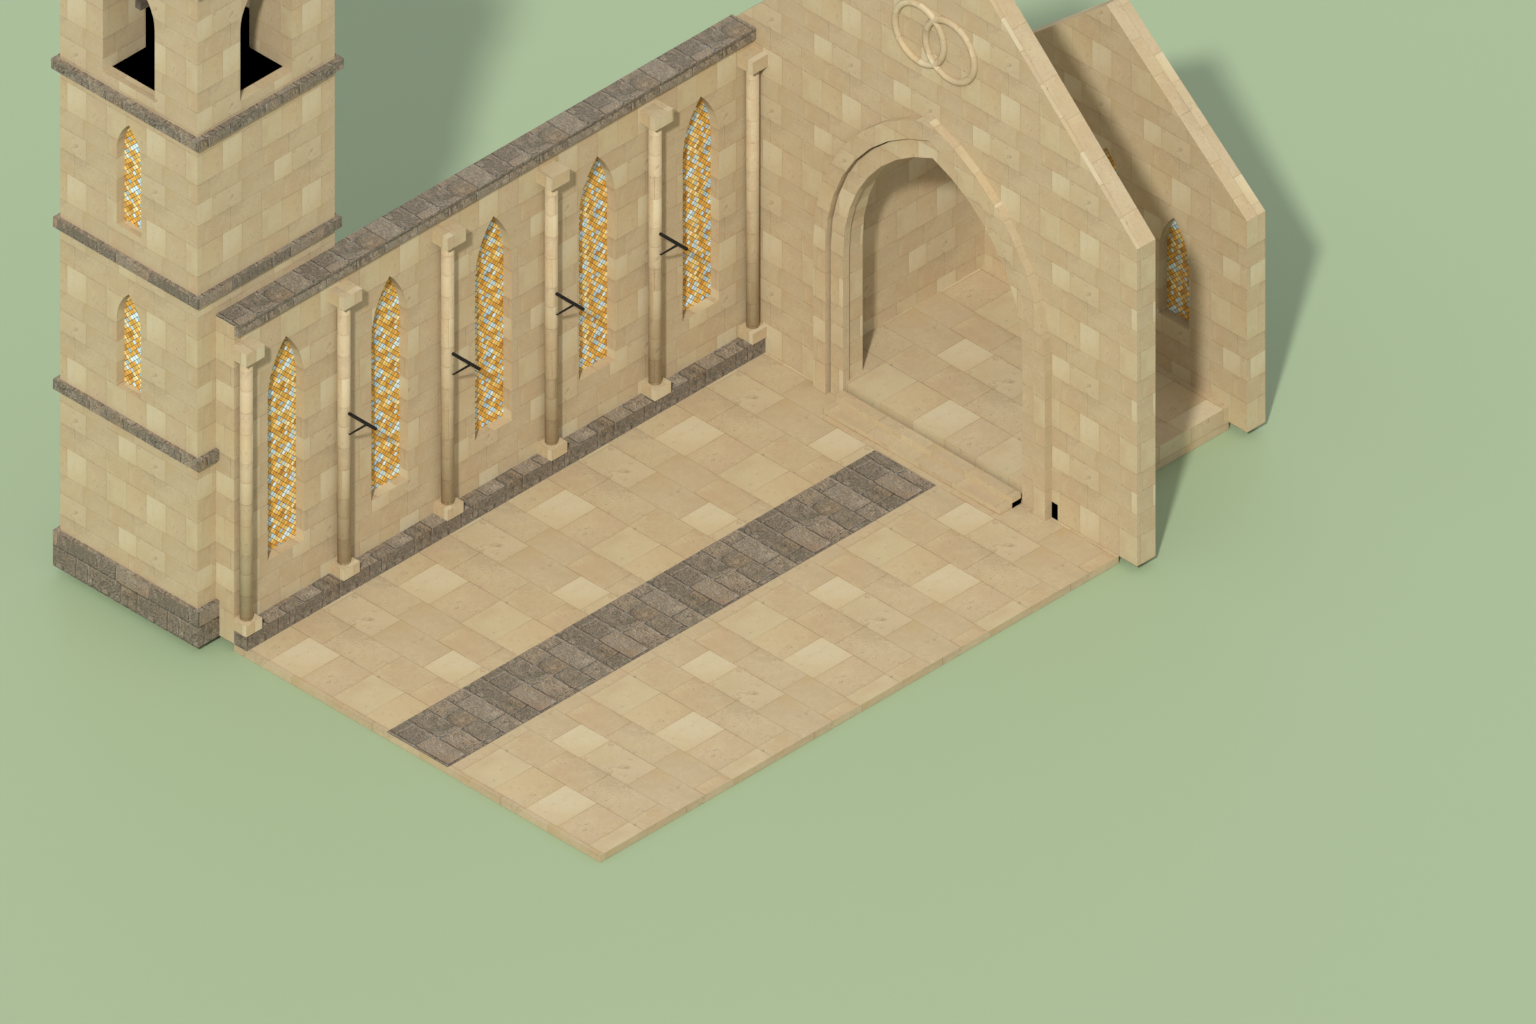
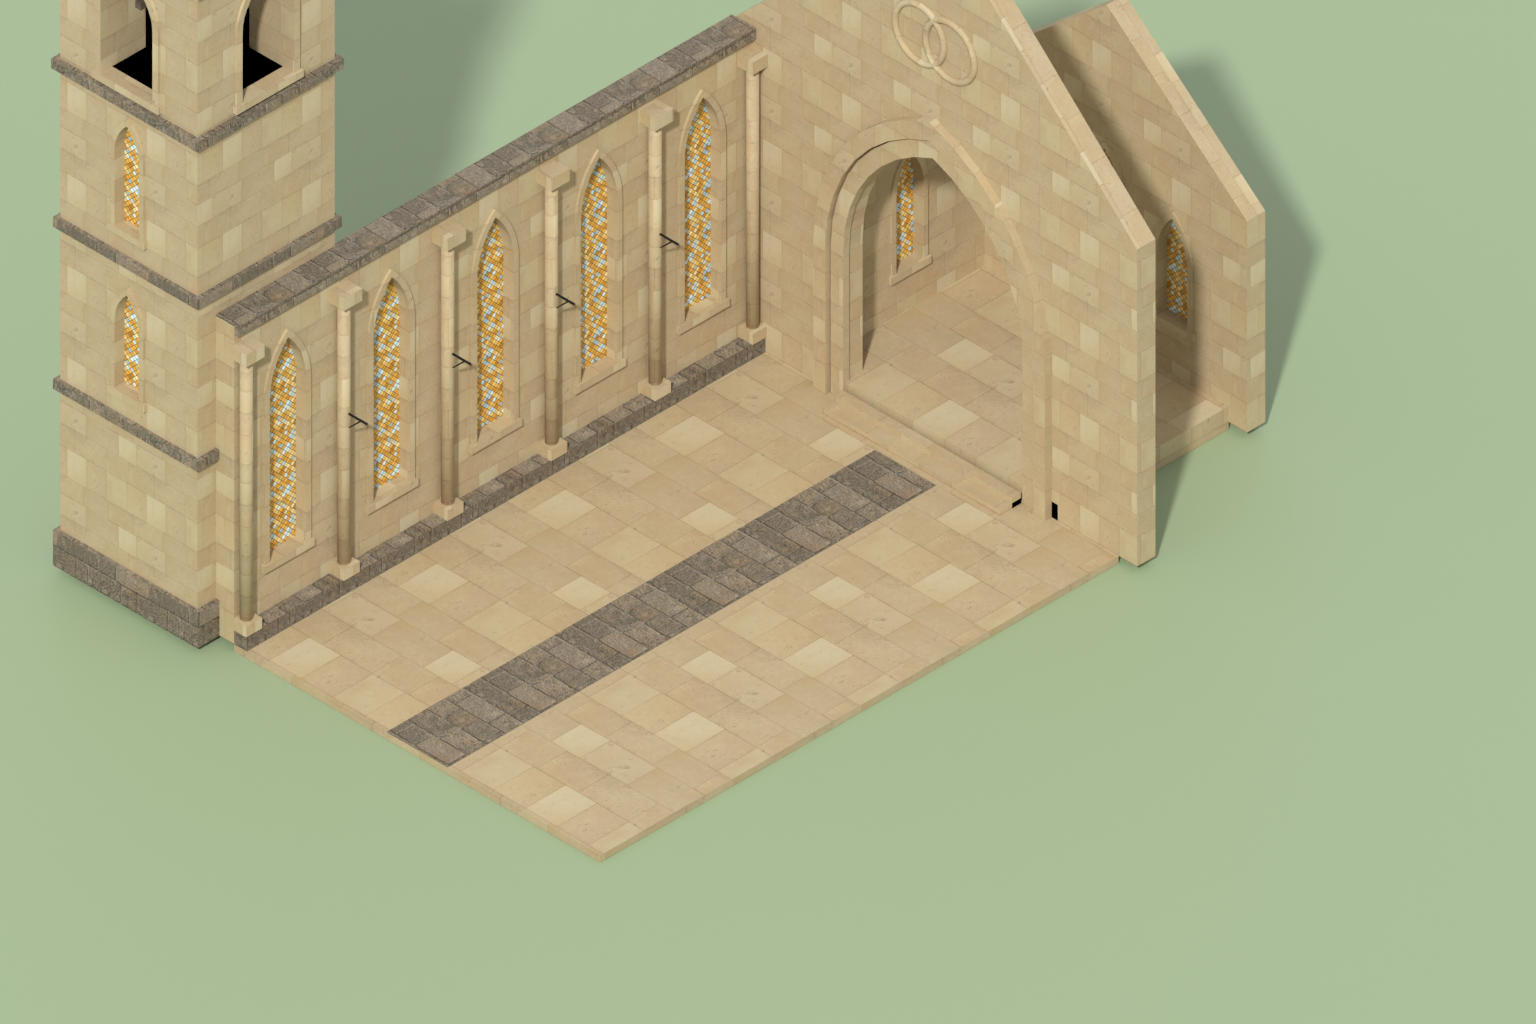
Refine the union hall model record and test its wall collision

diff --git a/shared/src/shelter.rs b/shared/src/shelter.rs
@@ -225,6 +225,41 @@ mod tests {
     }
 
     #[test]
+    fn union_hall_walls_block_and_portal_opens() {
+        let p = FurniturePlacement {
+            id: 121,
+            type_id: "union_hall".into(),
+            x: -1445.0658,
+            y: 1.0128,
+            z: 4797.3719,
+            rotation_deg: 270.0,
+            floor_level: 0,
+        };
+        let cache = cache(&p);
+        for (ax, az, bx, bz) in [
+            (5.0, 0.0, 7.0, 0.0),
+            (-5.0, 3.0, -7.0, 3.0),
+            (0.0, -7.5, 0.0, -9.5),
+            (4.0, 7.5, 4.0, 9.5),
+        ] {
+            let (x0, z0) = world(&p, ax, az);
+            let (x1, z1) = world(&p, bx, bz);
+            assert!(
+                is_movement_blocked(&cache, x0, z0, x1, z1, 0, Some(p.y)),
+                "out {ax},{az}"
+            );
+            assert!(
+                is_movement_blocked(&cache, x1, z1, x0, z0, 0, Some(p.y)),
+                "in {ax},{az}"
+            );
+        }
+        let (x0, z0) = world(&p, 0.0, 7.5);
+        let (x1, z1) = world(&p, 0.0, 9.5);
+        assert!(!is_movement_blocked(&cache, x0, z0, x1, z1, 0, Some(p.y)));
+        assert!(!is_movement_blocked(&cache, x1, z1, x0, z0, 0, Some(p.y)));
+    }
+
+    #[test]
     fn pathfinding_detours_through_front_instead_of_cutting_through_canvas() {
         for yaw in [0.0, 90.0, 180.0, 270.0, 45.0] {
             let p = tent(-1881.977, 5517.6353, yaw);

diff --git a/doc/assets/environment.md b/doc/assets/environment.md
@@ -94,9 +94,9 @@ white-cloud.jpg도 같은 폴더의 원본(5964px)을 2048px q85로 줄인 것.
 - 원화: [union-hall-concept-v2.png](../images/props/union-hall-concept-v2.png), 1536×1024 PNG. 가문 합병 의식용 건물이며 사용자 확정 2026-11-11. OpenAI Codex built-in ImageGen, **ChatGPT Pro 20x**, 생성 2026-11-11. 외부 참조 이미지 없이 생성했으며 OpenAI 생성 출력물 이용 조건 적용. 밝은 석회암 벽, 슬레이트 박공지붕, 버트레스 5구간, 4단 석조 종탑. 장미창과 첨탑 끝의 맞물린 두 고리는 두 가문의 결합을 뜻한다. 목표 크기는 폭 12m·깊이 22m·처마 9m·용마루 15m·종탑 26m. [프롬프트·해시](../../assets/props/union-hall/concept-source-v2.json).
 - 분리 구성: 텐트와 같은 `perimeter`·`cutaway` 방식. 실내에서 남는 후면부는 바닥·먼 쪽 긴 벽 안쪽 면·제단부 끝벽, 숨는 전면부는 지붕·정면 박공·가까운 쪽 긴 벽이다. 좌석·제단·깃발은 별도 오브젝트로 둔다.
 - 후면부 원화: [union-hall-back-concept-v1.png](../images/props/union-hall-back-concept-v1.png), 1536×1024 PNG. v2 원화를 참조로 붙여 같은 내장 ImageGen·**ChatGPT Pro 20x**로 생성, 같은 이용 조건. 전면부는 v2 외관을 디자인으로 쓴다. [프롬프트·해시·파트 구성](../../assets/props/union-hall/split-concepts-v1.json).
-- 직접 모델링 v1(2026-11-11, 사용자 결정): Tripo 대신 Blender 5.2 Python 형상에 타일링 재질을 입혔다. 생성형 3D 도구는 쓰지 않았다. 본당 12×17m·처마 9m·용마루 15m, 제단부 8×5m, 종탑 4.5m 각·첨탑 끝 26m, 정문 폭 3.8m·높이 5.7m. 삼각형 10,154개(`hall_back` 3,448·`hall_front` 4,696·`hall_tower` 2,010), GLB 1,026,288바이트. 재질은 기존 하우징의 Poly Haven CC0 텍스처(marble_01·medieval_blocks_03·grey_roof_tiles_02·dark_wooden_planks)와 직접 만든 납틀 유리 텍스처다. marble_01·grey_roof_tiles_02는 ORM의 금속 채널이 0.5라 고정 거칠기·금속 0으로 바꿨다. 렌더: [외관](../images/props/union-hall-model/exterior.png)·[기본 확대 실내](../images/props/union-hall-model/game-zoom1-indoors.png). [소스·해시·남은 문제](../../assets/props/union-hall/model/sources.json).
+- 직접 모델링(2026-11-11, 사용자 결정; v2 2026-11-12): Tripo 대신 Blender 5.2 Python 형상에 타일링 재질을 입혔다. 생성형 3D 도구는 쓰지 않았다. 본당 12×17m·처마 9m·용마루 15m, 제단부 8×5m, 종탑 4.5m 각·첨탑 끝 26m, 정문 폭 3.8m·높이 5.7m. 삼각형 14,146개(`hall_back` 5,040·`hall_front` 6,456·`hall_tower` 2,650), GLB 1,253,848바이트. v2에서 창틀·창대, 3겹 정문 아치와 기둥, 처마 받침, 박공 덮개돌, 제단부 옆창을 더하고 깃발 걸이와 첨탑을 가늘게 했다. 재질은 기존 하우징의 Poly Haven CC0 텍스처(marble_01·medieval_blocks_03·grey_roof_tiles_02·dark_wooden_planks)와 직접 만든 납틀 유리 텍스처다. marble_01·grey_roof_tiles_02는 ORM의 금속 채널이 0.5라 고정 거칠기·금속 0으로 바꿨다. 렌더: [외관](../images/props/union-hall-model/exterior.png)·[기본 확대 실내](../images/props/union-hall-model/game-zoom1-indoors.png)·[기본 확대 정문](../images/props/union-hall-model/game-zoom1-portal.png). [소스·해시·남은 문제](../../assets/props/union-hall/model/sources.json).
 - 배치 제약: 입구는 서향(회전 270) 전용이며 남향으로 놓으려면 좌우를 뒤집은 모델이 필요하다. `perimeter`가 평평한 직사각형 하나라 본당 12×17m만 걸을 수 있고 제단부는 배경이다. 노드는 `hall_back`·`hall_tower`(실내 유지)와 `hall_front`(숨김)이다.
-- 설치 상태(2026-11-11): `client/public/models/objects/union_hall.glb`(로컬, HF·`assets.lock` 미등록), `object_catalog.json`의 `union_hall`(foundation 23×30m, perimeter 12×17×9m·입구 3.8m, cutaway `hall_front`). 개발 월드 가구점 옆에 배치해 재질과 실내 숨김을 확인했다. 벽 통과와 프레임 저하가 남아 있다.
+- 설치 상태(2026-11-11): `client/public/models/objects/union_hall.glb`(로컬, HF·`assets.lock` 미등록), `object_catalog.json`의 `union_hall`(foundation 23×30m, perimeter 12×17×9m·입구 3.8m, cutaway `hall_front`). 개발 월드 가구점 옆에 배치해 재질과 실내 숨김을 확인했다. 벽 충돌은 서버 재시작 뒤 정상이고 프레임 저하는 없었다. 종탑·제단부·버트레스에는 충돌이 없다.
 
 ## Ysolde's Excavation Tent / 이졸데의 발굴 야영 텐트 (2026-10-24)
 
